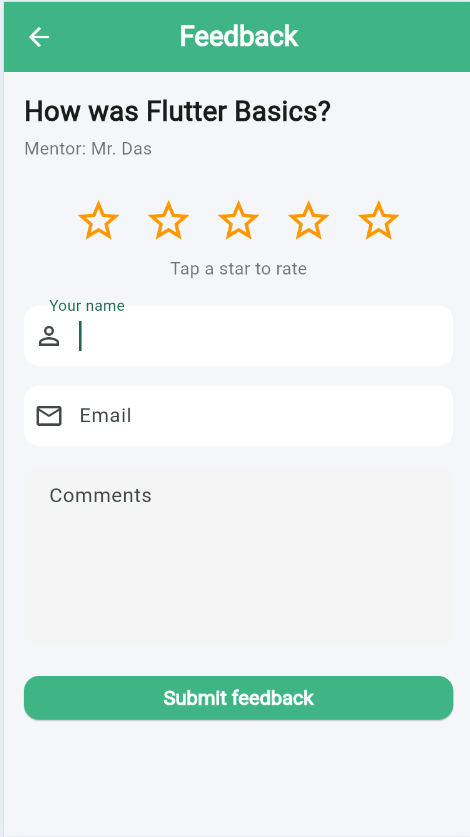
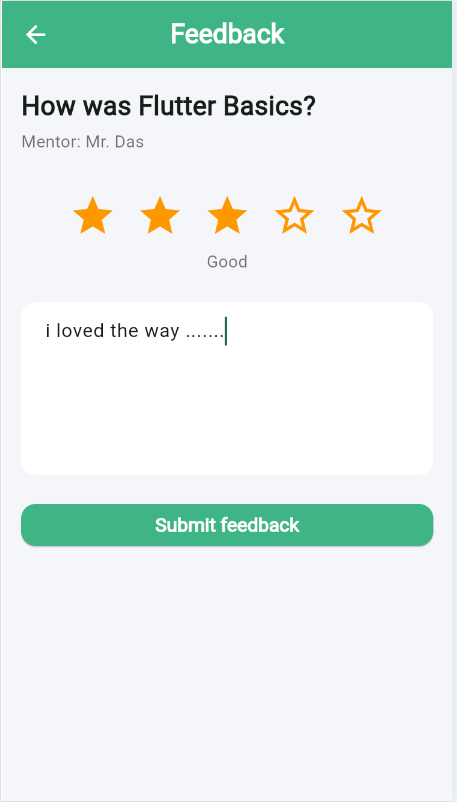
updating files and readme

diff --git a/README.md b/README.md
@@ -70,7 +70,7 @@ Make learning programs easy to find and easy to run. Students get one calm, simp
 ## Demo Video
 Watch the 2 to 3 minute walkthrough of the navigation between the screens and the design choices:
 
-**[Watch the demo video](https://drive.google.com/file/d/1wm4EjQ_mFJvoz9sFcPjjHsUksgi3PyzV/view?usp=sharing)**
+**[Watch the demo video](https://drive.google.com/file/d/1-Ktaw-hel2rY_NZyjs4z3Sci6lbUUlql/view?usp=sharing)**
 
 ## Week 3 Changes
 - **Data from JSON:** Program Listing and Program Details now load programs from `assets/data/programs.json` through `ProgramService` and `Program.fromJson`, instead of hardcoded text.
